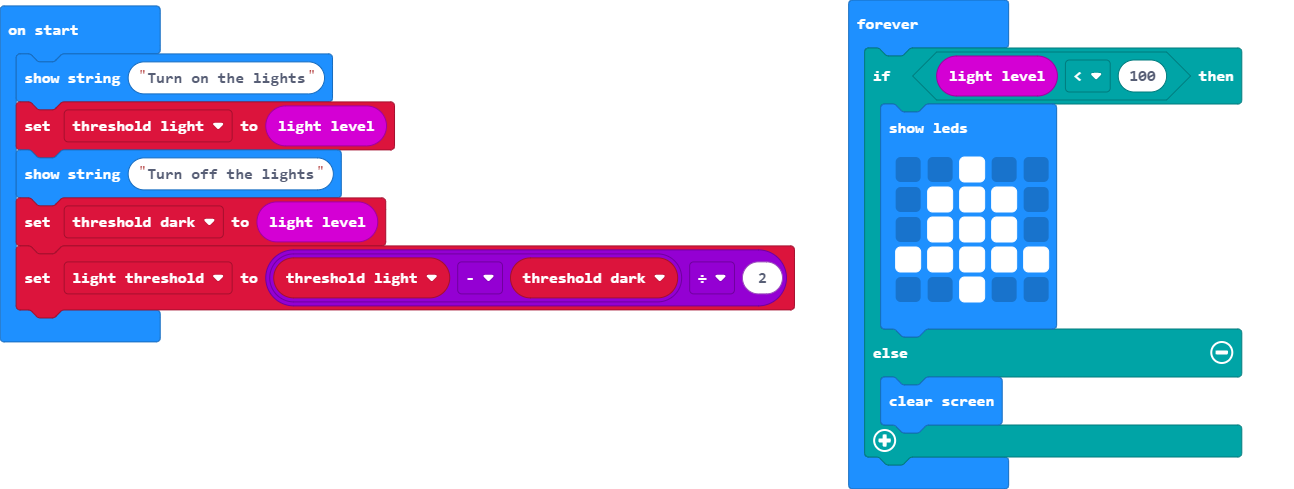
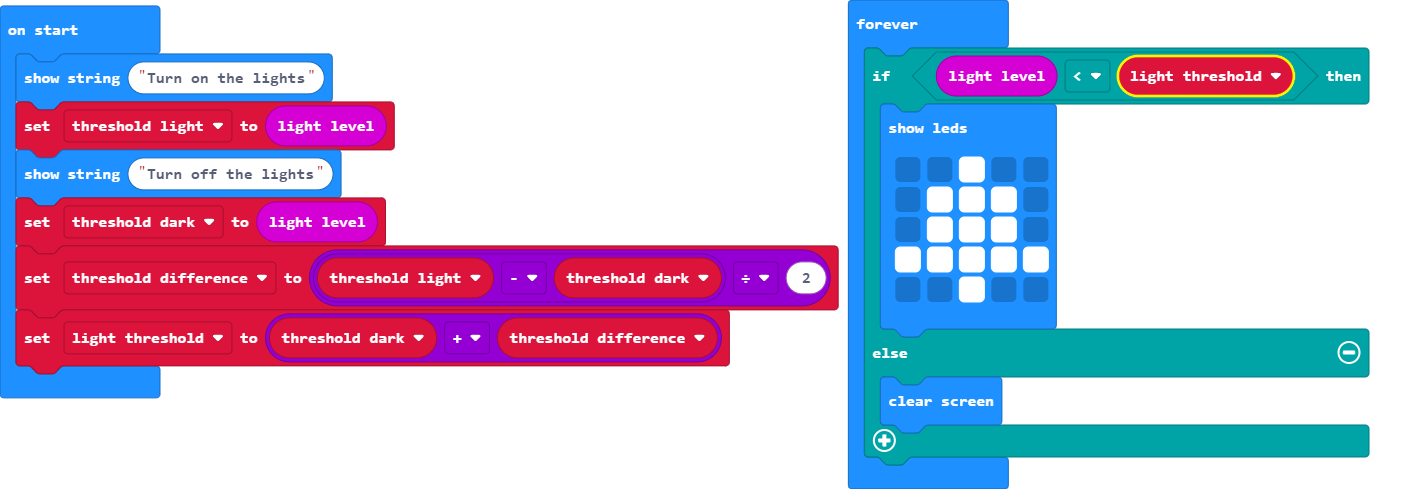
Fix bug in threshold setting.

diff --git a/main.ts b/main.ts
@@ -2,9 +2,10 @@ basic.showString("Turn on the lights")
 let threshold_light = input.lightLevel()
 basic.showString("Turn off the lights")
 let threshold_dark = input.lightLevel()
-let light_threshold = (threshold_light - threshold_dark) / 2
+let threshold_difference = (threshold_light - threshold_dark) / 2
+let light_threshold = threshold_dark + threshold_difference
 basic.forever(function () {
-    if (input.lightLevel() < 100) {
+    if (input.lightLevel() < light_threshold) {
         basic.showLeds(`
             . . # . .
             . # # # .
